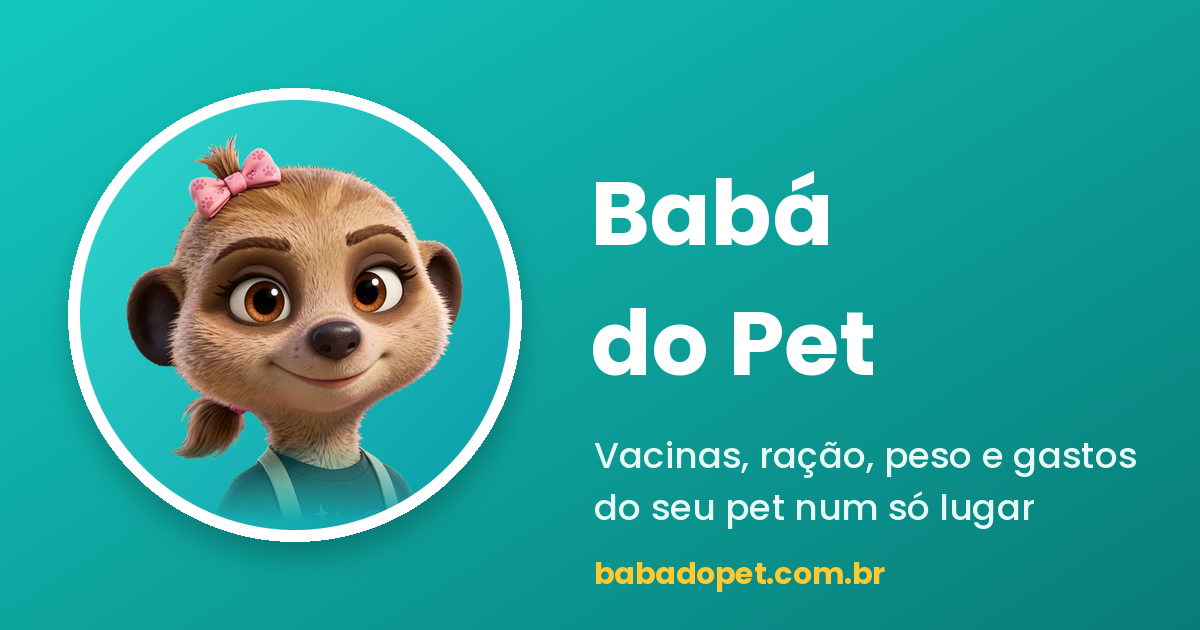
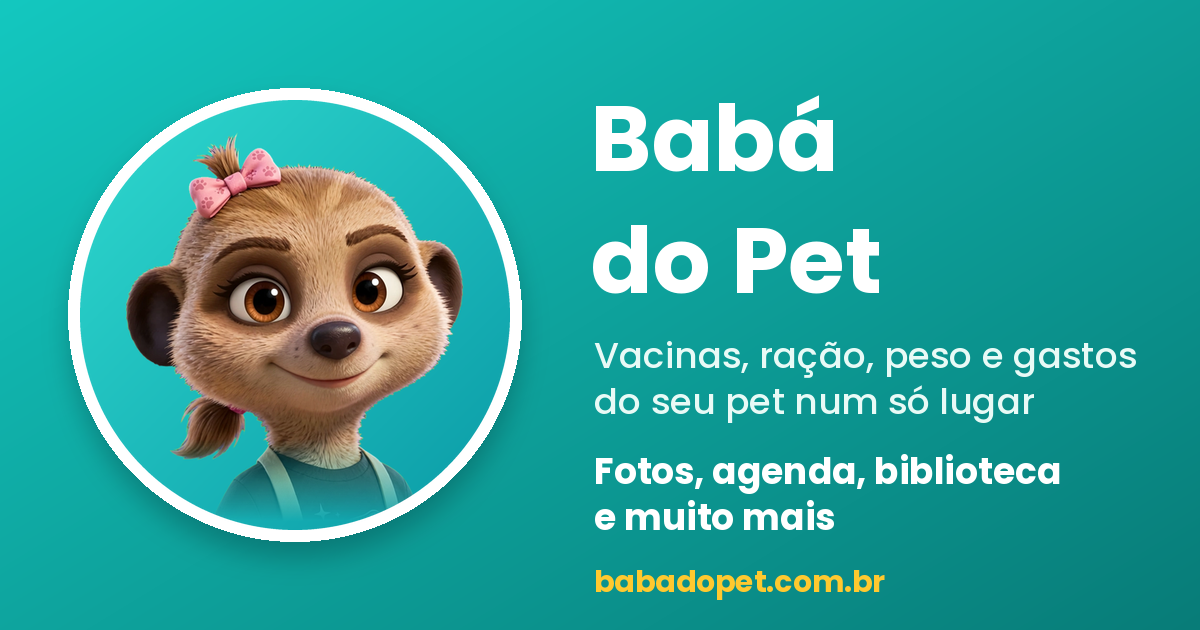
Inclui "Fotos, agenda, biblioteca e muito mais" no cartão de compartilhamento
- Frase adicionada às descrições og:description e twitter:description
- Imagem og-image.png atualizada com a mesma frase

Claude-Session: https://claude.ai/code/session_01N39eGUzY1shaX9MaYCB5jX

Changed region(s): [[0.4933, 0.1508, 0.9558, 0.6635], [0.4933, 0.6937, 0.9558, 0.8444], [0.4933, 0.8746, 0.74, 0.9651]]

diff --git a/index.html b/index.html
@@ -12,7 +12,7 @@
 <meta property="og:locale" content="pt_BR">
 <meta property="og:url" content="https://babadopet.com.br/">
 <meta property="og:title" content="Babá do Pet">
-<meta property="og:description" content="Vacinas, ração, peso e gastos do seu pet num só lugar. Funciona sem internet e seus dados ficam no seu celular.">
+<meta property="og:description" content="Vacinas, ração, peso e gastos do seu pet num só lugar. Fotos, agenda, biblioteca e muito mais. Funciona sem internet e seus dados ficam no seu celular.">
 <meta property="og:image" content="https://babadopet.com.br/og-image.png">
 <meta property="og:image:type" content="image/png">
 <meta property="og:image:width" content="1200">
@@ -20,7 +20,7 @@
 <meta property="og:image:alt" content="Babá do Pet: a suricata mascote do app de cuidados com pets">
 <meta name="twitter:card" content="summary_large_image">
 <meta name="twitter:title" content="Babá do Pet">
-<meta name="twitter:description" content="Vacinas, ração, peso e gastos do seu pet num só lugar.">
+<meta name="twitter:description" content="Vacinas, ração, peso e gastos do seu pet num só lugar. Fotos, agenda, biblioteca e muito mais.">
 <meta name="twitter:image" content="https://babadopet.com.br/og-image.png">
 <link rel="manifest" href="manifest.json">
[1 lines of base64/hex data omitted]
